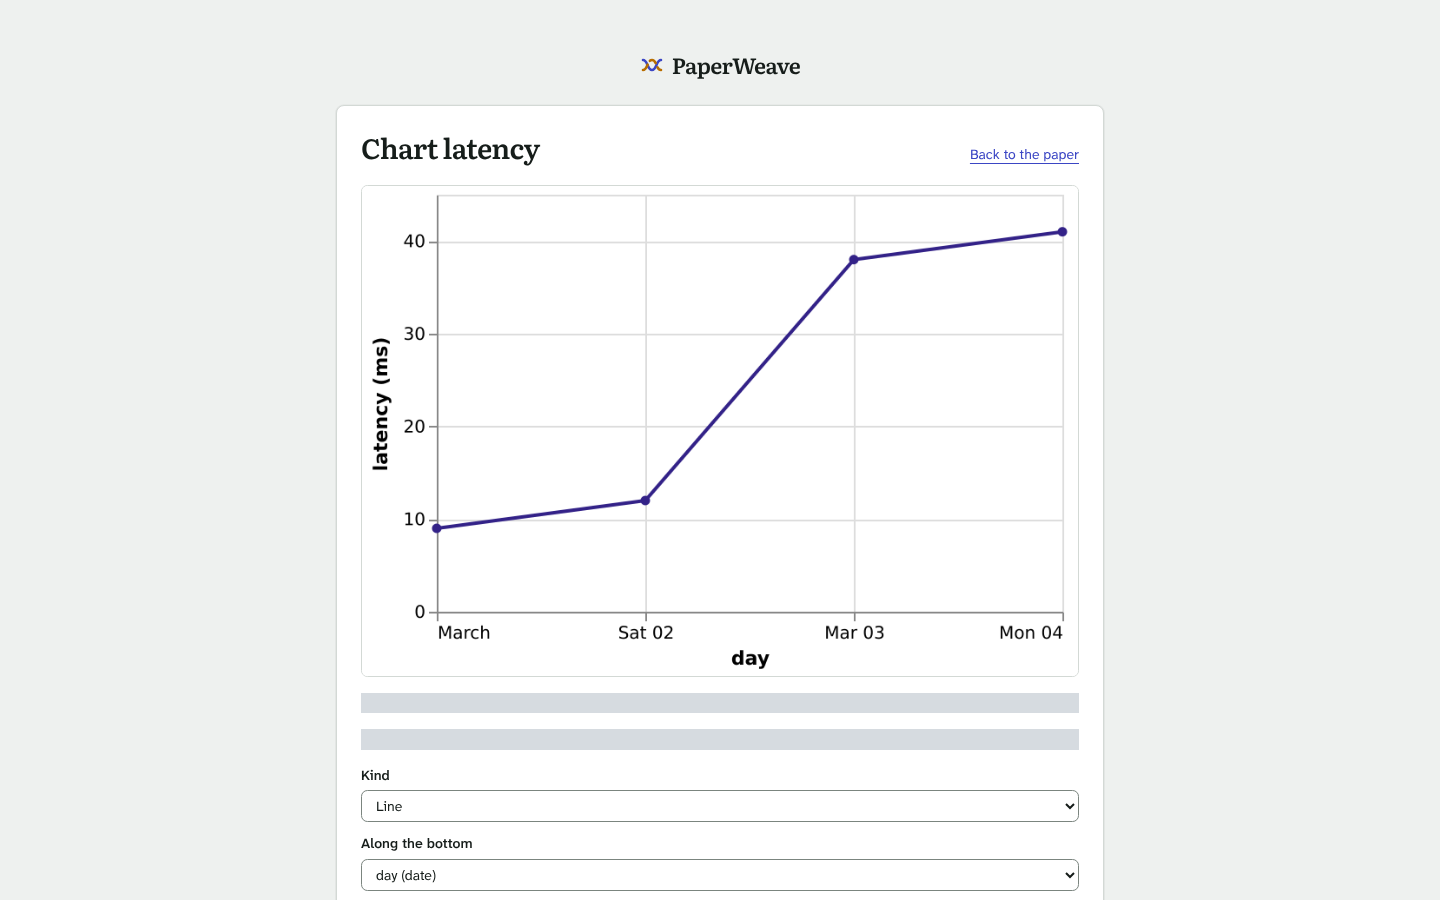
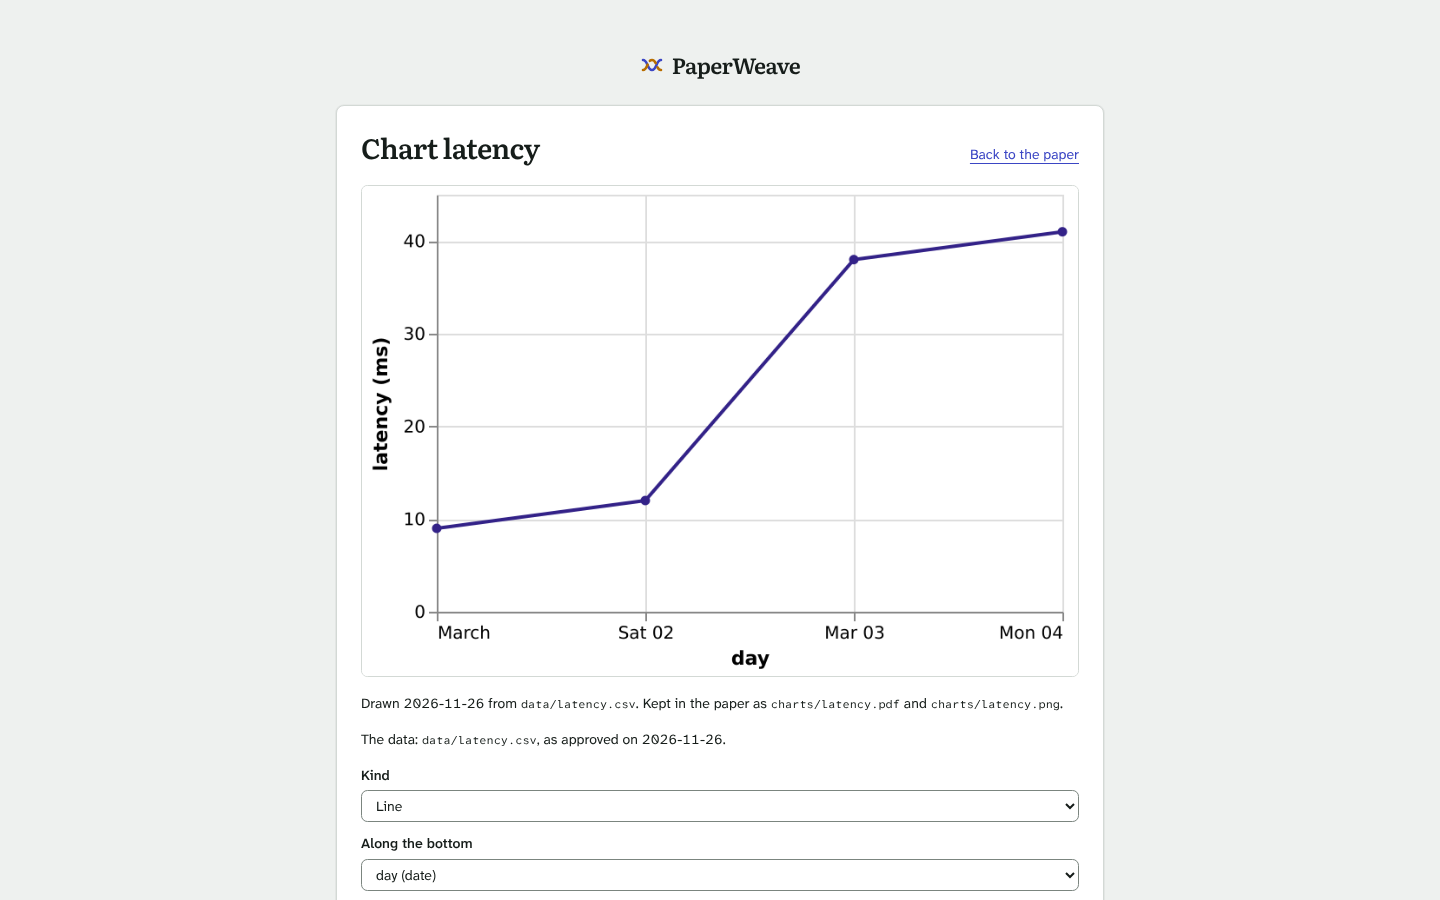
README: clean screenshots, and a dark editor that matches the light one
The first set came from the masked screenshot run, with its magenta
blocks painted grey. These are the same views taken with the masks off,
so the test fixtures' addresses and times show as they are. The dark hero
image is now the same view as the light one.

Claude-Session: https://claude.ai/code/session_01HtDHS7V1DAi51eUioSkWG3

Changed region(s): [[0.25, 0.7467, 0.75, 0.84]]

diff --git a/docs/status.md b/docs/status.md
@@ -8067,10 +8067,10 @@ pointing to the new page).
 - **Kept.** Every setup and run instruction the old README had, unchanged: install, lint,
   typecheck and test; the compose services, `.env.example`, migrate and `pnpm dev`; the sync
   server; the TeX image and the workers; `SPIKE=1`; the sandbox and browser tests; and the test slots.
-- **Screenshots.** Four, in `docs/images/` (`editor-visual-light.png`, `editor-source-dark.png`,
-  `papers-list-light.png`, `chart-light.png`), each under 250 KB. They are from the T52 test
-  fixtures at 1440 wide. The pink blocks that the capture put over addresses and times were
-  filled with a neutral grey; nothing else was changed.
+- **Screenshots.** Four, in `docs/images/` (`editor-visual-light.png`, `editor-dark.png`,
+  `papers-list-light.png`, `chart-light.png`), each under 250 KB. They were taken by
+  `tests/ui-shots.spec.ts` at 1440 wide from its test fixtures, with its masks off for once, so
+  addresses and times show as the fixtures have them (`@example.org`).
 - **Badges.** CI is the workflow badge for `ci.yml`. The others state the engine and tools in
   `package.json`. There is no licence badge because there is no `LICENSE` file, and no coverage
   or version number.

diff --git a/README.md b/README.md
@@ -16,7 +16,7 @@ source, a source editor, and the compiled PDF, side by side.
 [Quick start](#quick-start) · [Features](#features) · [How it fits together](#how-it-fits-together) · [Docs](#documentation) · [Testing](#testing)
 
 <picture>
-  <source media="(prefers-color-scheme: dark)" srcset="docs/images/editor-source-dark.png">
+  <source media="(prefers-color-scheme: dark)" srcset="docs/images/editor-dark.png">
   <img src="docs/images/editor-visual-light.png" alt="The PaperWeave editor: the file tree, the visual editor, the review panel with a proposed change and a comment, and the compiled PDF" width="100%">
 </picture>
 
